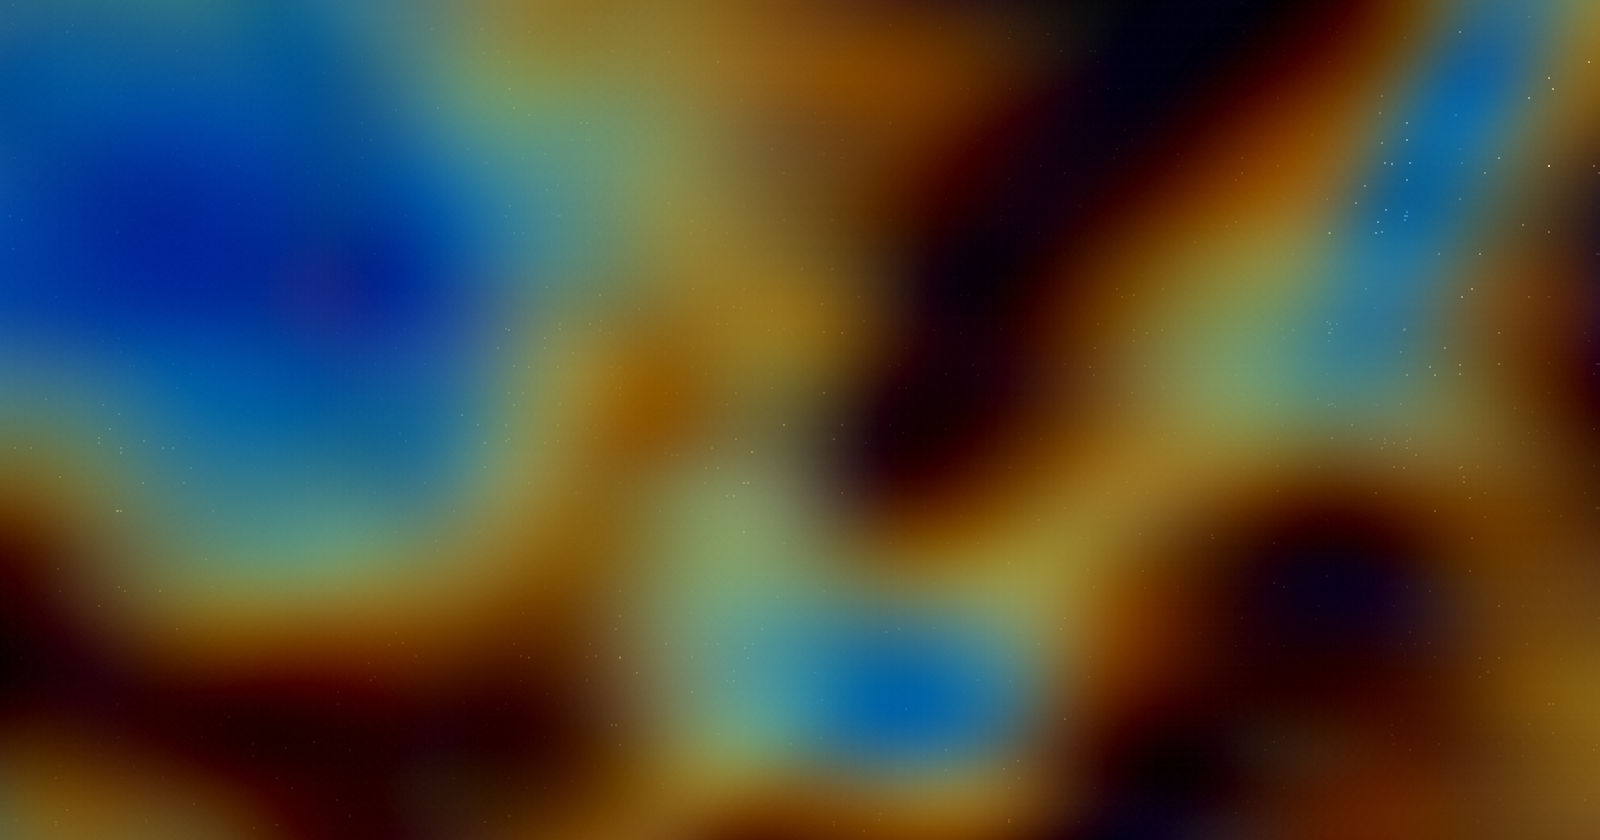
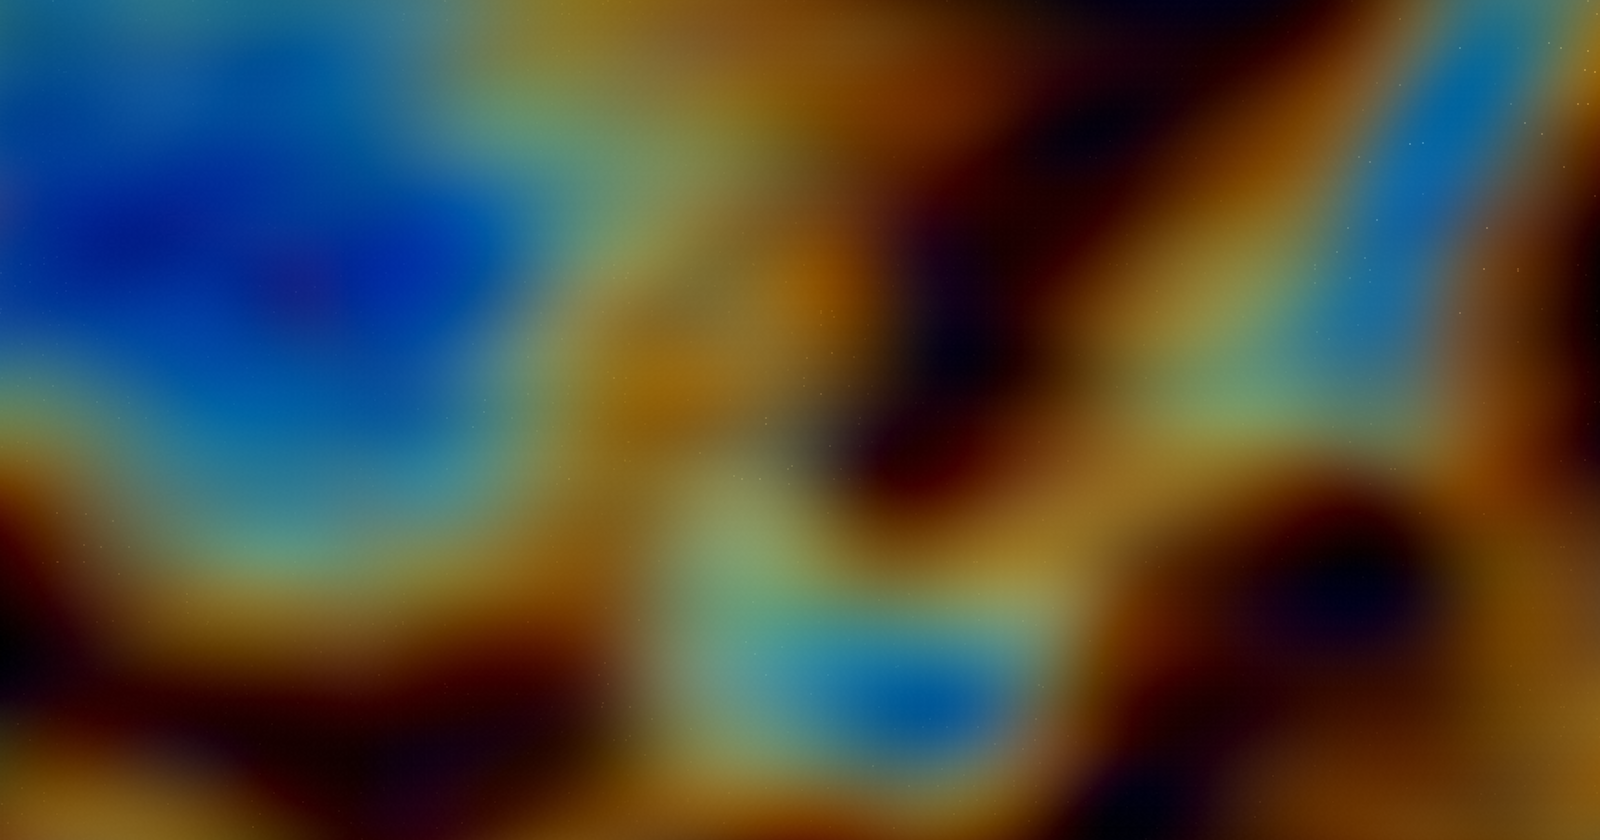
011: steadier pupil — EMA display weights, wider net, camera cover-crop
The belief strobed: raw SGD weights jitter at 360 steps/s. The display
now reads an EMA of the weights (the optimizer keeps its nerves, the
viewer gets calm) — 008's no-flash lesson applied to an optimizer.
Hidden width 32 -> 48 and Fourier bandwidth up for a more legible
portrait; lr 0.22 -> 0.16; the webcam is cover-cropped and mirrored
instead of stretched.

diff --git a/builds/011-pupil/index.html b/builds/011-pupil/index.html
@@ -17,7 +17,7 @@
 </head>
 <body>
 <canvas id="c"></canvas>
-<div id="hint">a 2,339-parameter neural network, training by backprop in this tab right now &middot; the image is its current belief &middot; the sparks are its training samples, bright where it is most wrong &middot; move to stir its world; click to show it your camera</div>
+<div id="hint">a 4,851-parameter neural network, training by backprop in this tab right now &middot; the image is its current belief &middot; the sparks are its training samples, bright where it is most wrong &middot; move to stir its world; click to show it your camera</div>
 
 <!-- ============================================================
      PUPIL. An MLP — Fourier features → 32 → 32 → RGB — trained
@@ -83,7 +83,7 @@ out vec4 outC;
 void main() {
   int b = int(gl_FragCoord.x), i = int(gl_FragCoord.y);
   float z = texelFetch(uW, ivec2(uInN, i), 0).r;          // bias
-  for (int j = 0; j < 32; j++) {
+  for (int j = 0; j < 48; j++) {
     if (j >= uInN) break;
     z += texelFetch(uW, ivec2(j, i), 0).r * texelFetch(uIn, ivec2(b, j), 0).r;
   }
@@ -95,7 +95,7 @@ void main() {
 <script type="x-shader/fragment" id="d3-fs">#version 300 es
 precision highp float;
 uniform sampler2D uW3, uH2, uCoord, uCam;
-uniform float uTime, uUseCam, uAspect;
+uniform float uTime, uUseCam, uAspect, uCamAspect;
 uniform vec2 uMouse;
 out vec4 outC;
 
@@ -128,13 +128,17 @@ vec3 world(vec2 uv) {
 
 void main() {
   int b = int(gl_FragCoord.x), c = int(gl_FragCoord.y);
-  float z = texelFetch(uW3, ivec2(32, c), 0).r;
-  for (int j = 0; j < 32; j++)
+  float z = texelFetch(uW3, ivec2(48, c), 0).r;
+  for (int j = 0; j < 48; j++)
     z += texelFetch(uW3, ivec2(j, c), 0).r * texelFetch(uH2, ivec2(b, j), 0).r;
   vec2 uv = texelFetch(uCoord, ivec2(b, 0), 0).xy;
   vec3 tgt;
   if (uUseCam > 0.5) {
-    vec2 cuv = vec2(1.0 - uv.x, uv.y);   // mirrored, cover-cropped upstream
+    // cover-crop the camera to the canvas aspect, mirrored
+    vec2 q = uv - 0.5;
+    vec2 cuv = (q * vec2(uAspect, 1.0) / max(1.0, uAspect / uCamAspect))
+             / vec2(uCamAspect, 1.0) + 0.5;
+    cuv.x = 1.0 - cuv.x;
     tgt = texture(uCam, cuv).rgb;
   } else {
     tgt = world(uv);
@@ -153,7 +157,7 @@ out vec4 outC;
 void main() {
   int b = int(gl_FragCoord.x), j = int(gl_FragCoord.y);
   float s = 0.0;
-  for (int i = 0; i < 32; i++) {
+  for (int i = 0; i < 48; i++) {
     if (i >= uNextN) break;
     s += texelFetch(uWnext, ivec2(j, i), 0).r * texelFetch(uDnext, ivec2(b, i), 0).r;
   }
@@ -189,6 +193,22 @@ void main() {
 }
 </script>
 
+<!-- smoothed display weights: SGD jitters at 360 steps/s, and raw
+     weights strobe the belief. The eye gets an exponential moving
+     average; the optimizer keeps its nerves to itself -->
+<script type="x-shader/fragment" id="ema-fs">#version 300 es
+precision highp float;
+uniform sampler2D uWE, uW;
+uniform float uInit;
+out vec4 outC;
+void main() {
+  ivec2 q = ivec2(gl_FragCoord.xy);
+  float w = texelFetch(uW, q, 0).r;
+  float e = uInit > 0.5 ? w : mix(texelFetch(uWE, q, 0).r, w, 0.05);
+  outC = vec4(e, 0.0, 0.0, 0.0);
+}
+</script>
+
 <!-- display: run the whole network for every pixel — the belief -->
 <script type="x-shader/fragment" id="disp-fs">#version 300 es
 precision highp float;
@@ -204,28 +224,28 @@ void main() {
   vec2 uv = gl_FragCoord.xy / uRes;
   vec2 p = uv - 0.5;
 
-  float F[32]; float H1[32]; float H2[32];
-  for (int j = 0; j < 32; j++) {
+  float F[48]; float H1[48]; float H2[48];
+  for (int j = 0; j < 48; j++) {
     int k = j >> 1;
     float ang = hash1(vec2(float(k), 3.1)) * 6.2831853;
     float om  = 2.0 + hash1(vec2(float(k), 9.7)) * 17.0;
     float ph  = om * dot(vec2(cos(ang), sin(ang)), p);
     F[j] = (j & 1) == 0 ? sin(ph) : cos(ph);
   }
-  for (int i = 0; i < 32; i++) {
-    float z = texelFetch(uW1, ivec2(32, i), 0).r;
-    for (int j = 0; j < 32; j++) z += texelFetch(uW1, ivec2(j, i), 0).r * F[j];
+  for (int i = 0; i < 48; i++) {
+    float z = texelFetch(uW1, ivec2(48, i), 0).r;
+    for (int j = 0; j < 48; j++) z += texelFetch(uW1, ivec2(j, i), 0).r * F[j];
     H1[i] = tanh(z);
   }
-  for (int i = 0; i < 32; i++) {
-    float z = texelFetch(uW2, ivec2(32, i), 0).r;
-    for (int j = 0; j < 32; j++) z += texelFetch(uW2, ivec2(j, i), 0).r * H1[j];
+  for (int i = 0; i < 48; i++) {
+    float z = texelFetch(uW2, ivec2(48, i), 0).r;
+    for (int j = 0; j < 48; j++) z += texelFetch(uW2, ivec2(j, i), 0).r * H1[j];
     H2[i] = tanh(z);
   }
   vec3 col;
   for (int c = 0; c < 3; c++) {
-    float z = texelFetch(uW3, ivec2(32, c), 0).r;
-    for (int j = 0; j < 32; j++) z += texelFetch(uW3, ivec2(j, c), 0).r * H2[j];
+    float z = texelFetch(uW3, ivec2(48, c), 0).r;
+    for (int j = 0; j < 48; j++) z += texelFetch(uW3, ivec2(j, c), 0).r * H2[j];
     col[c] = z;
   }
   col = clamp(col, 0.0, 1.0);
@@ -257,12 +277,12 @@ precision highp float;
 in float vErr;
 out vec4 outC;
 void main() {
-  outC = vec4(vec3(1.0, 0.9, 0.7) * min(vErr * 0.5, 1.0) * 0.75, 1.0);
+  outC = vec4(vec3(1.0, 0.9, 0.7) * min(vErr * 0.5, 1.0) * 0.45, 1.0);
 }
 </script>
 
 <script>
-const B = 1024, NH = 32, STEPS_PER_FRAME = 6;
+const B = 1024, NH = 48, STEPS_PER_FRAME = 6;
 const canvas = document.getElementById('c');
 const gl = canvas.getContext('webgl2', { antialias: false });
 const canFloat = gl && gl.getExtension('EXT_color_buffer_float');
@@ -292,6 +312,7 @@ const P = {
   sgd:   program('quad-vs', 'sgd-fs'),
   disp:  program('quad-vs', 'disp-fs'),
   spark: program('spark-vs', 'spark-fs'),
+  ema:   program('quad-vs', 'ema-fs'),
 };
 const U = {};
 for (const [name, prog] of Object.entries(P)) {
@@ -335,10 +356,16 @@ const D3 = makeTex(B, 3,  gl.R32F);
 const D2 = makeTex(B, NH, gl.R32F);
 const D1 = makeTex(B, NH, gl.R32F);
 // weights: 33 columns (32 in + bias), ping-pong
-const W1 = [makeTex(33, NH, gl.R32F), makeTex(33, NH, gl.R32F)];
-const W2 = [makeTex(33, NH, gl.R32F), makeTex(33, NH, gl.R32F)];
-const W3 = [makeTex(33, 3,  gl.R32F), makeTex(33, 3,  gl.R32F)];
+const W1 = [makeTex(49, NH, gl.R32F), makeTex(49, NH, gl.R32F)];
+const W2 = [makeTex(49, NH, gl.R32F), makeTex(49, NH, gl.R32F)];
+const W3 = [makeTex(49, 3,  gl.R32F), makeTex(49, 3,  gl.R32F)];
 let w1 = 0, w2 = 0, w3 = 0, needInit = true;
+
+// the eye's copy of the weights — EMA-smoothed, strobe-free
+const WE1 = [makeTex(49, NH, gl.R32F), makeTex(49, NH, gl.R32F)];
+const WE2 = [makeTex(49, NH, gl.R32F), makeTex(49, NH, gl.R32F)];
+const WE3 = [makeTex(49, 3,  gl.R32F), makeTex(49, 3,  gl.R32F)];
+let e1 = 0, e2 = 0, e3 = 0, emaInit = true;
 
 // camera (offered on click)
 const camTex = makeTex(64, 64, gl.RGBA8);   // replaced on first frame
@@ -409,7 +436,7 @@ function pass(prog, dst, binds, setu) {
 
 let simT = 0, stepIdx = 0;
 const DT = 1 / 60;
-const LR = 0.22;
+const LR = 0.16;
 
 function trainStep() {
   stepIdx++;
@@ -417,23 +444,24 @@ function trainStep() {
 
   pass(P.coord, COORD, [], () => gl.uniform1f(u.coord.uStep, stepIdx));
   pass(P.h0, H0, [[u.h0.uCoord, COORD.tex]]);
-  pass(P.fwd, H1, [[u.fwd.uW, W1[w1].tex], [u.fwd.uIn, H0.tex]], () => gl.uniform1i(u.fwd.uInN, 32));
-  pass(P.fwd, H2, [[u.fwd.uW, W2[w2].tex], [u.fwd.uIn, H1.tex]], () => gl.uniform1i(u.fwd.uInN, 32));
+  pass(P.fwd, H1, [[u.fwd.uW, W1[w1].tex], [u.fwd.uIn, H0.tex]], () => gl.uniform1i(u.fwd.uInN, 48));
+  pass(P.fwd, H2, [[u.fwd.uW, W2[w2].tex], [u.fwd.uIn, H1.tex]], () => gl.uniform1i(u.fwd.uInN, 48));
   pass(P.d3, D3, [[u.d3.uW3, W3[w3].tex], [u.d3.uH2, H2.tex], [u.d3.uCoord, COORD.tex],
                   [u.d3.uCam, camReady ? realCamTex : camTex.tex]], () => {
     gl.uniform1f(u.d3.uTime, simT);
     gl.uniform1f(u.d3.uUseCam, camReady ? 1 : 0);
     gl.uniform1f(u.d3.uAspect, W / H);
+    gl.uniform1f(u.d3.uCamAspect, camW / camH);
     gl.uniform2f(u.d3.uMouse, mouse.x, mouse.y);
   });
   pass(P.back, D2, [[u.back.uWnext, W3[w3].tex], [u.back.uDnext, D3.tex], [u.back.uH, H2.tex]],
     () => gl.uniform1i(u.back.uNextN, 3));
   pass(P.back, D1, [[u.back.uWnext, W2[w2].tex], [u.back.uDnext, D2.tex], [u.back.uH, H1.tex]],
-    () => gl.uniform1i(u.back.uNextN, 32));
+    () => gl.uniform1i(u.back.uNextN, 48));
 
   const sgd = (Wpair, cur, Dtex, Atex, seed, scale) => {
     pass(P.sgd, Wpair[1 - cur], [[u.sgd.uW, Wpair[cur].tex], [u.sgd.uD, Dtex], [u.sgd.uA, Atex]], () => {
-      gl.uniform1i(u.sgd.uInN, 32);
+      gl.uniform1i(u.sgd.uInN, 48);
       gl.uniform1f(u.sgd.uLR, LR);
       gl.uniform1f(u.sgd.uReset, needInit ? 1 : 0);
       gl.uniform1f(u.sgd.uSeed, seed);
@@ -449,11 +477,19 @@ function trainStep() {
 function step() {
   simT += DT;
   for (let s = 0; s < STEPS_PER_FRAME; s++) trainStep();
+  const ema = (WE, cur, Wt) => {
+    pass(P.ema, WE[1 - cur], [[U.ema.uWE, WE[cur].tex], [U.ema.uW, Wt]],
+      () => gl.uniform1f(U.ema.uInit, emaInit ? 1 : 0));
+  };
+  ema(WE1, e1, W1[w1].tex); e1 = 1 - e1;
+  ema(WE2, e2, W2[w2].tex); e2 = 1 - e2;
+  ema(WE3, e3, W3[w3].tex); e3 = 1 - e3;
+  emaInit = false;
 }
 
 function render() {
   // the belief, at 55% resolution — beliefs are soft
-  pass(P.disp, RS, [[U.disp.uW1, W1[w1].tex], [U.disp.uW2, W2[w2].tex], [U.disp.uW3, W3[w3].tex]],
+  pass(P.disp, RS, [[U.disp.uW1, WE1[e1].tex], [U.disp.uW2, WE2[e2].tex], [U.disp.uW3, WE3[e3].tex]],
     () => gl.uniform2f(U.disp.uRes, RS.w, RS.h));
 
   // upscale to screen (RGBA8 → RGBA8, so blit is legal)

diff --git a/builds/011-pupil/NOTES.md b/builds/011-pupil/NOTES.md
@@ -2,7 +2,7 @@
 
 **date** 2026-07-20 · **lineage** 010-archive · **status** alive
 
-A 2,339-parameter neural network — Fourier features → 32 → 32 → RGB —
+A 4,851-parameter neural network — Fourier features → 48 → 48 → RGB —
 training by real stochastic gradient descent, live, in this tab.
 Forward passes, backward deltas, and weight updates are all fragment
 shaders; there is no library and no pretrained anything. Each frame
@@ -30,7 +30,12 @@ your camera: it will chase your face and never quite arrive.
   minibatch at its glimpse coordinates, brightness = per-sample loss.
   You are literally watching where SGD is looking, synchronized by
   construction because the sparks *are* the training step.
-- deltas clamped ±4 as divergence insurance; lr 0.22 on batch means.
+- deltas clamped ±4 as divergence insurance; lr 0.16 on batch means.
+- **the eye gets an EMA**: raw SGD weights jitter at 360 steps/s and the
+  belief strobes. The display reads an exponential moving average of
+  the weights (α = 0.05) — the optimizer keeps its nerves, the viewer
+  gets calm. Same fix as 008's lesson: fast oscillation must render
+  as a place, not a flash.
 - the fallback world is domain-warped ink in the house palette; the
   webcam replaces it mid-training, and the network repaints itself
   from ink to face without resetting — watching that handover is the
@@ -42,7 +47,7 @@ your camera: it will chase your face and never quite arrive.
 |------------------|-------|---------------------------------------------|
 | `STEPS_PER_FRAME`| 6     | how fast it learns vs how dreamy it stays   |
 | `B`              | 1024  | glimpse count — smaller = jitterier beliefs |
-| `LR`             | 0.22  | too high and belief hallucinates rainbow    |
+| `LR`             | 0.16  | too high and the belief strobes             |
 | FF max ω         | ~19   | finest detail the eye can ever resolve      |
 | world drift      | 0.05  | how fast truth outruns belief               |
 
@@ -55,10 +60,12 @@ your camera: it will chase your face and never quite arrive.
   model. Data-driven art means art direction happens in the data.
 - `blitFramebuffer` refuses float→fixed-point: the belief buffer must
   be RGBA8, which costs nothing since belief is clamped anyway.
-- a 32-wide MLP under-fits on purpose. Under-fitting IS the
+- the camera must be cover-cropped to the canvas aspect or the
+  network diligently learns a squashed face.
+- a 48-wide MLP under-fits on purpose. Under-fitting IS the
   aesthetic: too much capacity and the piece converges into a plain
-  screenshot of the target; too little and it stays mud. 2,339
-  parameters is a portrait painter with a mile-wide brush.
+  screenshot of the target; too little and it stays mud. 4,851
+  parameters is a portrait painter with a wide, soft brush.
 - keep the training forward pass and the display forward pass
   byte-identical (same hashes, same frequencies) or the belief you
   render is not the belief you trained.